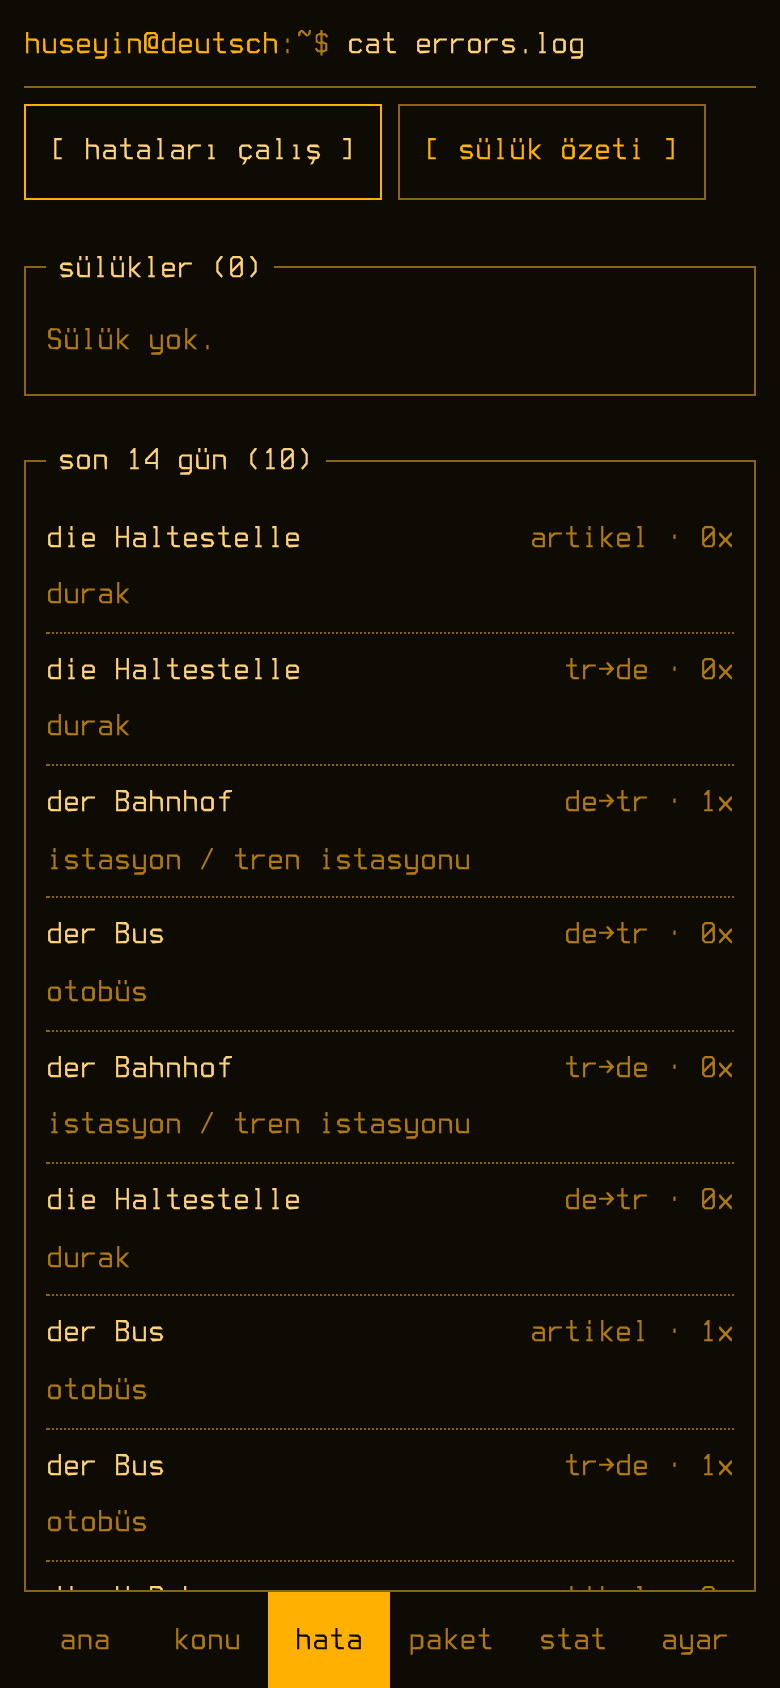
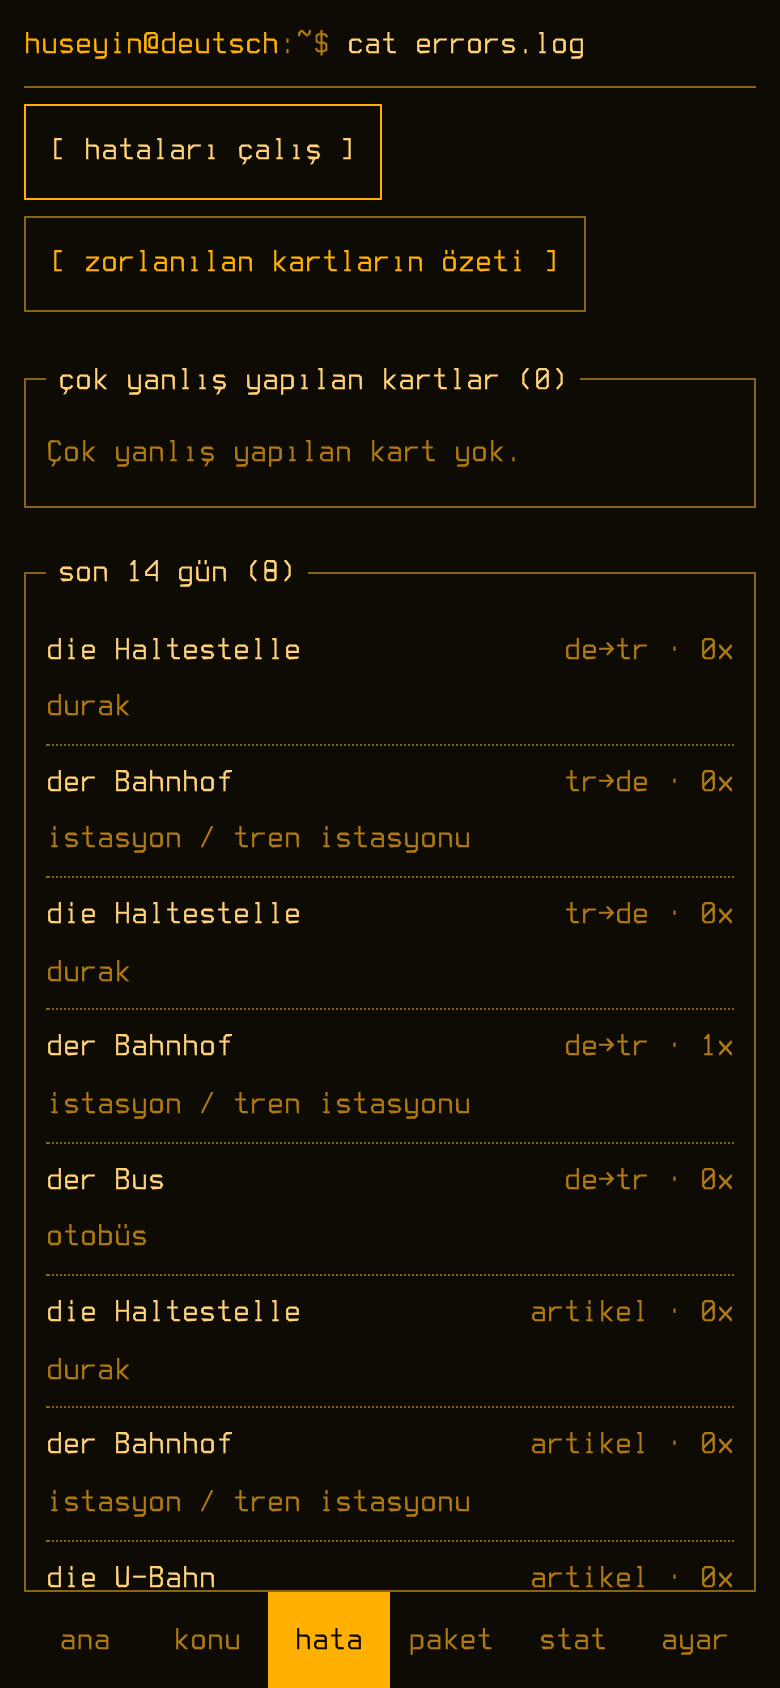
Arayüz metinleri sadeleştirildi (daha anlaşılır Türkçe)
Claude-Session: https://claude.ai/code/session_01NHAv7kDi6tjo58F4ejNote

diff --git a/src/client/screens/Packs.tsx b/src/client/screens/Packs.tsx
@@ -34,15 +34,15 @@ export function Packs({ ctx }: { ctx: Ctx }) {
     setBusy(true); setErrs([]);
     const r = await api('POST', '/api/packs/import', { raw, reset_progress: reset, reauth: { password: pw } });
     setBusy(false); setPw('');
-    if (r.status === 200) { setMsg('içe aktarıldı. Paketi etkinleştirmeyi unutma.'); setPlan(null); setRaw(''); load(); }
-    else if (r.status === 403) setErrs(['Doğrulama başarısız']);
+    if (r.status === 200) { setMsg('yüklendi. Paketi etkinleştirmeyi unutma.'); setPlan(null); setRaw(''); load(); }
+    else if (r.status === 403) setErrs(['Parola yanlış']);
     else setErrs(r.data?.errors ?? [r.data?.error ?? 'başarısız']);
   };
   const toggle = async (id: string, active: boolean) => { await api('PUT', `/api/packs/${id}/active`, { active }); load(); };
   const undo = async (id: number) => {
     const r = await api('POST', '/api/packs/undo', { import_id: id, reauth: { password: pw } });
     setPw(''); setUndoId(null);
-    setMsg(r.status === 200 ? 'geri alındı' : r.status === 403 ? 'Doğrulama başarısız' : r.data?.error ?? 'başarısız');
+    setMsg(r.status === 200 ? 'geri alındı' : r.status === 403 ? 'Parola yanlış' : r.data?.error ?? 'başarısız');
     load();
   };
 
@@ -55,20 +55,20 @@ export function Packs({ ctx }: { ctx: Ctx }) {
         {d && d.packs.length === 0 && <p class="dim">Henüz paket yok.</p>}
         {d?.packs.map((p: any) => (
           <div key={p.id} class="lsrow">
-            <span class="name">{p.title}<br /><span class="dim">{p.id} · v{p.version} · {p.level} · {p.items} item{p.retired ? ` (+${p.retired} emekli)` : ''}</span></span>
+            <span class="name">{p.title}<br /><span class="dim">{p.id} · v{p.version} · {p.level} · {p.items} item{p.retired ? ` (+${p.retired} kaldırılan)` : ''}</span></span>
             <button class={p.active ? 'btn pri' : 'btn'} aria-pressed={!!p.active} onClick={() => toggle(p.id, !p.active)}>{p.active ? '[x] aktif' : '[ ] pasif'}</button>
           </div>
         ))}
       </fieldset>
 
       <fieldset>
-        <legend>içe aktar</legend>
-        <p class="dim">deutsch-pack/1 JSON yapıştır veya dosya seç. Önce dry-run yapılır, hiçbir şey yazılmaz.</p>
+        <legend>yükle</legend>
+        <p class="dim">Paket dosyasını (JSON) yapıştır veya dosya seç. Önce önizleme gösterilir, onaylamadan hiçbir şey kaydedilmez.</p>
         <textarea value={raw} placeholder='{"standard":"deutsch-pack/1", …}' spellcheck={false} autocapitalize="off" autocorrect="off" aria-label="paket JSON"
           onInput={(e) => { setRaw((e.target as HTMLTextAreaElement).value); setPlan(null); setErrs([]); }} />
         <label for="pf">veya dosya</label>
         <input id="pf" type="file" accept="application/json,.json" onChange={onFile} />
-        <div class="btns"><button class="btn pri" disabled={!raw.trim() || busy} onClick={dry}>[ dry-run ]</button></div>
+        <div class="btns"><button class="btn pri" disabled={!raw.trim() || busy} onClick={dry}>[ önizle ]</button></div>
         {errs.length > 0 && <div class="errbox" role="alert">{errs.map((e) => <div key={e}>{e}</div>)}</div>}
         {plan && (
           <div class="man">
@@ -77,25 +77,25 @@ export function Packs({ ctx }: { ctx: Ctx }) {
               <span>eklenecek</span><b>{plan.add}</b>
               <span>güncellenecek</span><b>{plan.update + plan.restore}</b>
               <span>değişmeyecek</span><span>{plan.unchanged}</span>
-              <span>emekliye</span><b>{plan.retire}</b>
+              <span>kaldırılacak</span><b>{plan.retire}</b>
               <span>yeni kart</span><span>{plan.new_cards}</span>
             </div>
             {plan.answer_changed.length > 0 && (
               <>
-                <p class="hi">Cevabı etkileyen alan değişti ({plan.answer_changed.length} item): ilerleme sıfırlanabilir.</p>
+                <p class="hi">Cevabı etkileyen bir alan değişti ({plan.answer_changed.length} item): ilerleme sıfırlanabilir.</p>
                 <p class="dim">{plan.answer_changed.join(', ')}</p>
                 <label><input type="checkbox" checked={reset} onChange={(e) => setReset((e.target as HTMLInputElement).checked)} /> bu itemların ilerlemesini sıfırla</label>
               </>
             )}
             <label for="rp">onay için parola</label>
             <input id="rp" type="password" autocomplete="current-password" value={pw} onInput={(e) => setPw((e.target as HTMLInputElement).value)} />
-            <div class="btns"><button class="btn pri" disabled={!pw || busy} onClick={doImport}>[ içe aktar ]</button></div>
+            <div class="btns"><button class="btn pri" disabled={!pw || busy} onClick={doImport}>[ yükle ]</button></div>
           </div>
         )}
       </fieldset>
 
       <fieldset>
-        <legend>içe aktarma geçmişi</legend>
+        <legend>yükleme geçmişi</legend>
         {d?.log.length === 0 && <p class="dim">Kayıt yok.</p>}
         {d?.log.map((l: any) => (
           <div key={l.id} class="lsrow">

diff --git a/src/client/screens/Home.tsx b/src/client/screens/Home.tsx
@@ -21,7 +21,7 @@ export function Home({ ctx }: { ctx: Ctx }) {
     return (
       <div class="term" onClick={() => setBoot(false)} role="button" tabIndex={0}>
         <main class="boot">
-          {`deutsch-terminal\nson oturum   : ${h.last_review ? fmtDate(h.last_review) : 'yok'}\nvadesi gelen : ${h.due}\nhata defteri : ${h.errors}\n\n(dokun: geç)`}
+          {`deutsch-terminal\nson oturum   : ${h.last_review ? fmtDate(h.last_review) : 'yok'}\nbugün tekrar : ${h.due}\nhata defteri : ${h.errors}\n\n(dokun: geç)`}
         </main>
       </div>
     );
@@ -32,29 +32,29 @@ export function Home({ ctx }: { ctx: Ctx }) {
   return (
     <Screen cmd="ls" user={ctx.user}>
       <div class="kv">
-        <span>vadesi gelen</span><b>{h.due}</b>
+        <span>bugün tekrar</span><b>{h.due}</b>
         <span>yeni (bugün)</span><span>{h.new_available}</span>
         <span>hata defteri</span><span>{h.errors}</span>
         <span>son 7 gün</span><b>{blocks}</b>
       </div>
 
       {h.active_packs === 0 && (
-        <p class="errbox">Aktif paket yok. <Link href="/packs">/packs</Link> sayfasından bir paket içe aktar ve etkinleştir.</p>
+        <p class="errbox">Aktif paket yok. <Link href="/packs">/packs</Link> sayfasından bir paket yükle ve etkinleştir.</p>
       )}
 
       <fieldset>
         <legend>başlat</legend>
-        <Link class="lsrow" href="/study/daily"><span class="name">[1] günlük</span><span class="meta">{h.due} vadeli + {h.new_available} yeni</span></Link>
+        <Link class="lsrow" href="/study/daily"><span class="name">[1] günlük</span><span class="meta">{h.due} tekrar + {h.new_available} yeni</span></Link>
         <div class="lsrow">
           <span class="name">[2] yoğun gün</span>
-          <span class="meta">süre kutulu</span>
+          <span class="meta">süreli</span>
         </div>
         <div class="btns">
           {[10, 15, 20].map((m) => (
             <button key={m} class={m === sm ? 'btn pri' : 'btn'} onClick={() => nav(`/study/sprint?m=${m}`)}>[ {m} dk ]</button>
           ))}
         </div>
-        <Link class="lsrow" href="/study/mini"><span class="name">[3] mini (2 dk)</span><span class="meta">≤ 10 kart</span></Link>
+        <Link class="lsrow" href="/study/mini"><span class="name">[3] mini (2 dk)</span><span class="meta">en fazla 10 kart</span></Link>
       </fieldset>
 
       <fieldset>
@@ -63,7 +63,7 @@ export function Home({ ctx }: { ctx: Ctx }) {
           {Object.entries<any>(h.tracks).map(([t, v]) => (
             <Link key={t} class="lsrow" href={`/study/topic?track=${t}`}>
               <span class="name">{trackLabel[t]}</span>
-              <span class="meta">vadeli {v.due} · {v.cards} kart</span>
+              <span class="meta">tekrar {v.due} · {v.cards} kart</span>
               <span class="bar">{bar(v.strength)} {Math.round(v.strength * 100)}%</span>
             </Link>
           ))}
@@ -77,7 +77,7 @@ export function Home({ ctx }: { ctx: Ctx }) {
             {h.units.map((u: any) => (
               <Link key={u.unit} class="lsrow" href={`/study/topic?unit=${u.unit}`}>
                 <span class="name">{u.title}</span>
-                <span class="meta">{u.cards} kart · vadeli {u.due}</span>
+                <span class="meta">{u.cards} kart · tekrar {u.due}</span>
                 <span class="bar">{bar(u.strength)} {Math.round(u.strength * 100)}%</span>
               </Link>
             ))}

diff --git a/src/client/screens/Study.tsx b/src/client/screens/Study.tsx
@@ -49,7 +49,7 @@ export function Study({ mode, ctx }: { mode: Mode; ctx: Ctx }) {
     if (track) body.track = track;
     if (unit) body.unit = unit;
     api('POST', '/api/study/queue', body).then((r) => {
-      if (r.status !== 200) { setError('Kuyruk yüklenemedi'); return; }
+      if (r.status !== 200) { setError('Kartlar yüklenemedi'); return; }
       queue.current = r.data.questions;
       setLoaded(true);
       t0.current = performance.now();
@@ -144,7 +144,7 @@ export function Study({ mode, ctx }: { mode: Mode; ctx: Ctx }) {
   if (phase === 'done') return <Summary cmd={cmd} ctx={ctx} results={results.current} tomorrow={tomorrow} mode={mode} empty={total === 0} />;
   if (!q) return null;
 
-  const timer = mode === 'sprint' ? `[sprint ${mmss(left)}]` : `[${mode}]`;
+  const timer = mode === 'sprint' ? `[yoğun gün ${mmss(left)}]` : `[${mode}]`;
   const nDone = Math.min(idx + (phase === 'result' ? 1 : 0), total);
 
   return (
@@ -230,7 +230,7 @@ function Result({ q, res, answer }: { q: Q; res: Res; answer: string }) {
   const isChoice = q.kind === 'choice';
   return (
     <div role="status">
-      <div>{stamp} {res.leech && <span class="dim">sülük: sık yanlış yapılıyor</span>}</div>
+      <div>{stamp} {res.leech && <span class="dim">bu kartı sık yanlış yapıyorsun</span>}</div>
       {!res.correct && (
         <div class="diff">
           {!isChoice && <div class="minus">{res.user_line || '(boş)'}</div>}
@@ -271,7 +271,7 @@ function Summary({ cmd, ctx, results, tomorrow, mode, empty }: { cmd: string; ct
     <Screen cmd={cmd} user={ctx.user} nav={false}>
       {empty ? (
         <>
-          <h1>kuyruk boş</h1>
+          <h1>çalışılacak kart yok</h1>
           <p>Bu mod için şu an çalışılacak kart yok.</p>
           {mode === 'errors' ? <p class="dim">Son 14 günde yanlış yapılan kart yok.</p> : <p class="dim">Aktif paketler ve günlük yeni kart limiti için <Link href="/packs">/packs</Link> ve <Link href="/settings">/settings</Link>.</p>}
         </>
@@ -281,10 +281,10 @@ function Summary({ cmd, ctx, results, tomorrow, mode, empty }: { cmd: string; ct
           <div class="kv">
             <span>toplam</span><b>{results.length}</b>
             <span>doğru</span><b>{ok} ({results.length ? Math.round((ok / results.length) * 100) : 0}%)</b>
-            <span>yarın tahmini</span><span>{tomorrow ?? '…'} kart</span>
+            <span>yarın için tahmini</span><span>{tomorrow ?? '…'} kart</span>
           </div>
           <fieldset>
-            <legend>track bazında</legend>
+            <legend>konu başına</legend>
             {[...byTrack].map(([t, v]) => (
               <div key={t} class="lsrow"><span class="name">{trackLabel[t]}</span><span class="meta">{v.ok}/{v.n} {bar(v.ok / v.n, 8)}</span></div>
             ))}
@@ -298,7 +298,7 @@ function Summary({ cmd, ctx, results, tomorrow, mode, empty }: { cmd: string; ct
         </>
       )}
       <div class="btns">
-        <Link class="btn pri" href="/errors">[ hata defterine git ]</Link>
+        <Link class="btn pri" href="/errors">[ hata defterine bak ]</Link>
         <Link class="btn" href="/">[ ana ekran ]</Link>
       </div>
     </Screen>

diff --git a/src/client/screens/Settings.tsx b/src/client/screens/Settings.tsx
@@ -43,7 +43,7 @@ export function SettingsScreen({ ctx }: { ctx: Ctx }) {
     try { data = JSON.parse(await f.text()); } catch { setMsg('geçerli JSON değil'); return; }
     const r = await api('POST', '/api/progress/import', { data, reauth: { password: pw } });
     setPw('');
-    setMsg(r.status === 200 ? 'ilerleme içe aktarıldı' : r.status === 403 ? 'Doğrulama başarısız' : r.data?.error ?? 'başarısız');
+    setMsg(r.status === 200 ? 'ilerleme yüklendi' : r.status === 403 ? 'Parola yanlış' : r.data?.error ?? 'başarısız');
   };
 
   const toggle = (k: 'crt' | 'sprint_new' | 'vibrate' | 'wake_lock', label: string, note?: string) => (
@@ -71,13 +71,13 @@ export function SettingsScreen({ ctx }: { ctx: Ctx }) {
         <div class="btns">
           {[10, 15, 20].map((m) => <button key={m} class={s.sprint_minutes === m ? 'btn pri' : 'btn'} aria-pressed={s.sprint_minutes === m} onClick={() => save({ sprint_minutes: m as 10 | 15 | 20 })}>{m} dk</button>)}
         </div>
-        {toggle('sprint_new', "sprint'te yeni kart")}
-        {toggle('wake_lock', 'sprint sırasında ekran açık kalsın')}
+        {toggle('sprint_new', "yoğun günde de yeni kart gelsin")}
+        {toggle('wake_lock', 'yoğun gün sırasında ekran açık kalsın')}
         {toggle('vibrate', 'titreşim geri bildirimi')}
       </fieldset>
 
       <fieldset>
-        <legend>aktif oturumlar</legend>
+        <legend>açık oturumlar</legend>
         {sessions.map((x) => (
           <div key={x.id} class="lsrow">
             <span class="name">{x.ua}{x.current ? ' (bu cihaz)' : ''}<br /><span class="dim">{x.ip_trunc} · son: {fmtDate(x.last_used)}</span></span>
@@ -96,10 +96,10 @@ export function SettingsScreen({ ctx }: { ctx: Ctx }) {
 
       <fieldset>
         <legend>ilerleme</legend>
-        <div class="btns"><button class="btn" onClick={exportProgress}>[ dışa aktar (JSON) ]</button></div>
-        <label for="ip">içe aktarmak için parola</label>
+        <div class="btns"><button class="btn" onClick={exportProgress}>[ indir (JSON) ]</button></div>
+        <label for="ip">yüklemak için parola</label>
         <input id="ip" type="password" autocomplete="current-password" value={pw} onInput={(e) => setPw((e.target as HTMLInputElement).value)} />
-        <label for="if">ilerleme dosyası</label>
+        <label for="if">ilerleme dosyası (yükle)</label>
         <input id="if" type="file" accept="application/json,.json" onChange={importProgress} />
       </fieldset>
 

diff --git a/src/client/screens/Errors.tsx b/src/client/screens/Errors.tsx
@@ -29,18 +29,18 @@ export function Errors({ ctx }: { ctx: Ctx }) {
         <>
           <div class="btns">
             <Link class="btn pri" href="/study/errors">[ hataları çalış ]</Link>
-            <button class="btn" onClick={doExport}>[ sülük özeti ]</button>
+            <button class="btn" onClick={doExport}>[ zorlanılan kartların özeti ]</button>
           </div>
           {exp && (
             <fieldset>
-              <legend>paylaşılabilir özet</legend>
-              <textarea readOnly value={exp} aria-label="sülük özeti" />
+              <legend>paylaşabileceğin özet</legend>
+              <textarea readOnly value={exp} aria-label="zorlanılan kartların özeti" />
               <div class="btns"><button class="btn" onClick={copy}>{copied ? '[ kopyalandı ]' : '[ kopyala ]'}</button></div>
             </fieldset>
           )}
           <fieldset>
-            <legend>sülükler ({d.leeches.length})</legend>
-            {d.leeches.length === 0 && <p class="dim">Sülük yok.</p>}
+            <legend>çok yanlış yapılan kartlar ({d.leeches.length})</legend>
+            {d.leeches.length === 0 && <p class="dim">Çok yanlış yapılan kart yok.</p>}
             {d.leeches.map((e: any) => <Row key={e.card_id} e={e} />)}
           </fieldset>
           <fieldset>

diff --git a/src/client/screens/Topics.tsx b/src/client/screens/Topics.tsx
@@ -15,7 +15,7 @@ export function Topics({ ctx }: { ctx: Ctx }) {
             {Object.entries<any>(h.tracks).map(([t, v]) => (
               <Link key={t} class="lsrow" href={`/study/topic?track=${t}`}>
                 <span class="name">{trackLabel[t]}</span>
-                <span class="meta">{v.cards} kart · vadeli {v.due} · yeni {v.new}</span>
+                <span class="meta">{v.cards} kart · tekrar {v.due} · yeni {v.new}</span>
                 <span class="bar">{bar(v.strength, 20)} {Math.round(v.strength * 100)}%</span>
               </Link>
             ))}
@@ -26,7 +26,7 @@ export function Topics({ ctx }: { ctx: Ctx }) {
             {h.units.map((u: any) => (
               <Link key={u.unit} class="lsrow" href={`/study/topic?unit=${u.unit}`}>
                 <span class="name">{u.title}</span>
-                <span class="meta">{u.cards} kart · vadeli {u.due}</span>
+                <span class="meta">{u.cards} kart · tekrar {u.due}</span>
                 <span class="bar">{bar(u.strength, 20)} {Math.round(u.strength * 100)}%</span>
               </Link>
             ))}

diff --git a/src/client/screens/Stats.tsx b/src/client/screens/Stats.tsx
@@ -12,7 +12,7 @@ export function Stats({ ctx }: { ctx: Ctx }) {
   return (
     <Screen cmd="stats --days=30" user={ctx.user}>
       <fieldset>
-        <legend>isabet (son 30 gün)</legend>
+        <legend>doğru oranı (son 30 gün)</legend>
         {s.accuracy.length === 0 && <p class="dim">Henüz veri yok.</p>}
         {s.accuracy.map((a: any) => (
           <div key={a.track} class="lsrow"><span class="name">{trackLabel[a.track]}</span><span class="meta">{a.ok}/{a.n} {bar(a.ok / a.n, 10)} {Math.round((a.ok / a.n) * 100)}%</span></div>
@@ -25,7 +25,7 @@ export function Stats({ ctx }: { ctx: Ctx }) {
         ))}
       </fieldset>
       <fieldset>
-        <legend>tahmini yük (vadesi gelecek kart)</legend>
+        <legend>önümüzdeki günlerde gelecek kartlar</legend>
         {s.forecast.map((m: any, i: number) => (
           <div key={m.day} class="lsrow"><span class="name dim">{i === 0 ? 'bugün' : m.day.slice(5)}</span><span class="meta">{bar(m.n / maxF, 12)} {m.n}</span></div>
         ))}
